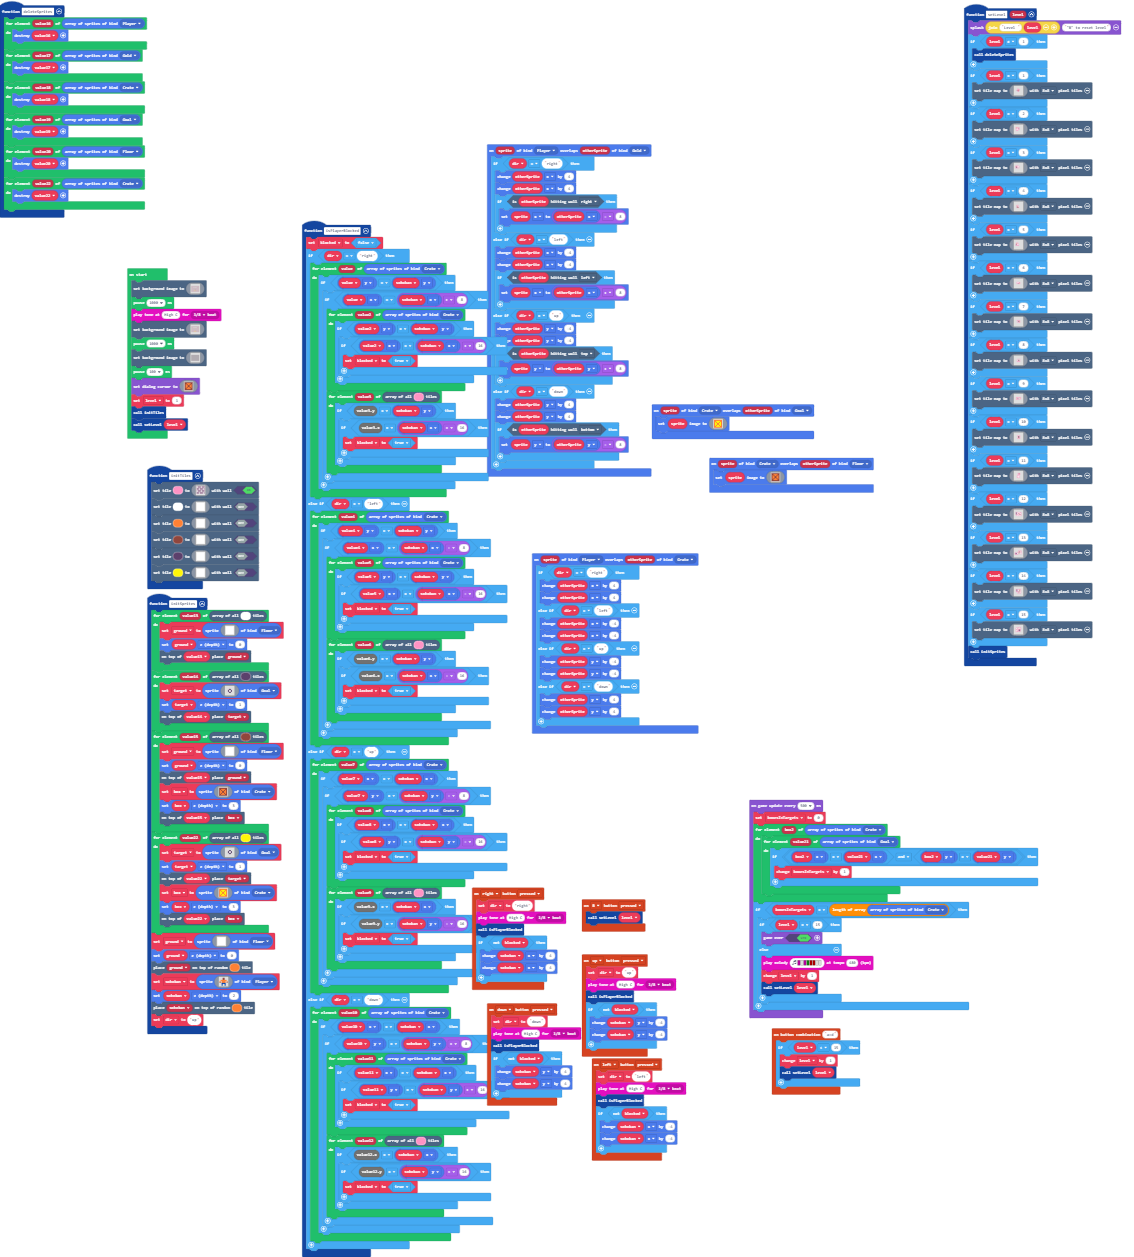
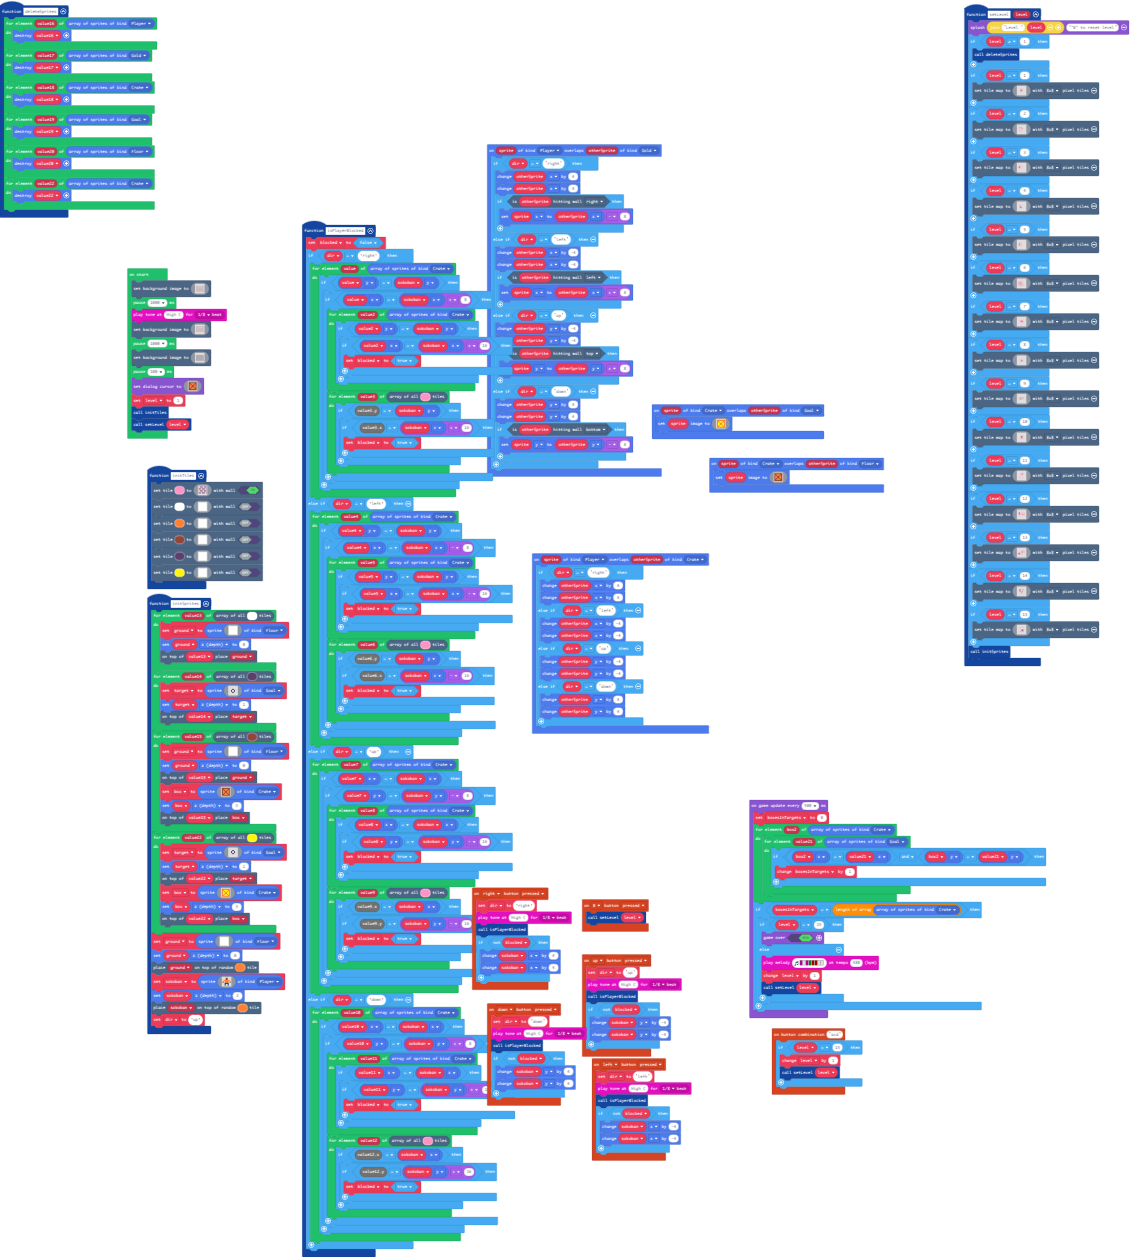
Level 6 is added!

diff --git a/main.ts b/main.ts
@@ -108,18 +108,18 @@ function setLevel (level: number) {
         scene.setTileMap(img`
             . . . . . . . . . . . . . . . . . . . . 
             . . . . . . . . . . . . . . . . . . . . 
-            . . . . . . 3 3 3 3 3 3 3 . . . . . . . 
-            . . . 3 3 3 3 1 1 1 1 1 3 . . . . . . . 
-            . . . 3 1 1 1 c 3 3 3 1 3 . . . . . . . 
-            . . . 3 1 3 1 3 1 1 1 1 3 3 . . . . . . 
-            . . . 3 1 3 1 e 1 e 3 c 1 3 . . . . . . 
-            . . . 3 1 3 1 1 5 1 1 3 1 3 . . . . . . 
-            . . . 3 1 c 3 e 1 e 1 3 1 3 . . . . . . 
-            . . . 3 3 1 1 1 1 3 1 3 1 3 3 3 3 . . . 
-            . . . . 3 1 3 3 3 c 1 1 1 1 1 4 3 . . . 
-            . . . . 3 1 1 1 1 1 3 3 1 1 1 1 3 . . . 
-            . . . . 3 3 3 3 3 3 3 3 3 3 3 3 3 . . . 
             . . . . . . . . . . . . . . . . . . . . 
+            . . . . 3 3 3 3 3 3 3 . . . . . . . . . 
+            . 3 3 3 3 . . . . . 3 . . . . . . . . . 
+            . 3 . . . c 3 3 3 . 3 . . . . . . . . . 
+            . 3 . 3 . 3 . . . . 3 3 . . . . . . . . 
+            . 3 . 3 . e . e 3 c . 3 . . . . . . . . 
+            . 3 . 3 . . 5 . . . . 3 . . . . . . . . 
+            . 3 . c 3 e . e . . . 3 3 3 . . . . . . 
+            . 3 3 . . . . 3 . . . . 4 3 . . . . . . 
+            . . 3 . 3 3 3 c . . . . . 3 . . . . . . 
+            . . 3 . . . . . 3 3 . . . 3 . . . . . . 
+            . . 3 3 3 3 3 3 3 3 3 3 3 3 . . . . . . 
             . . . . . . . . . . . . . . . . . . . . 
             `, TileScale.Eight)
     }
